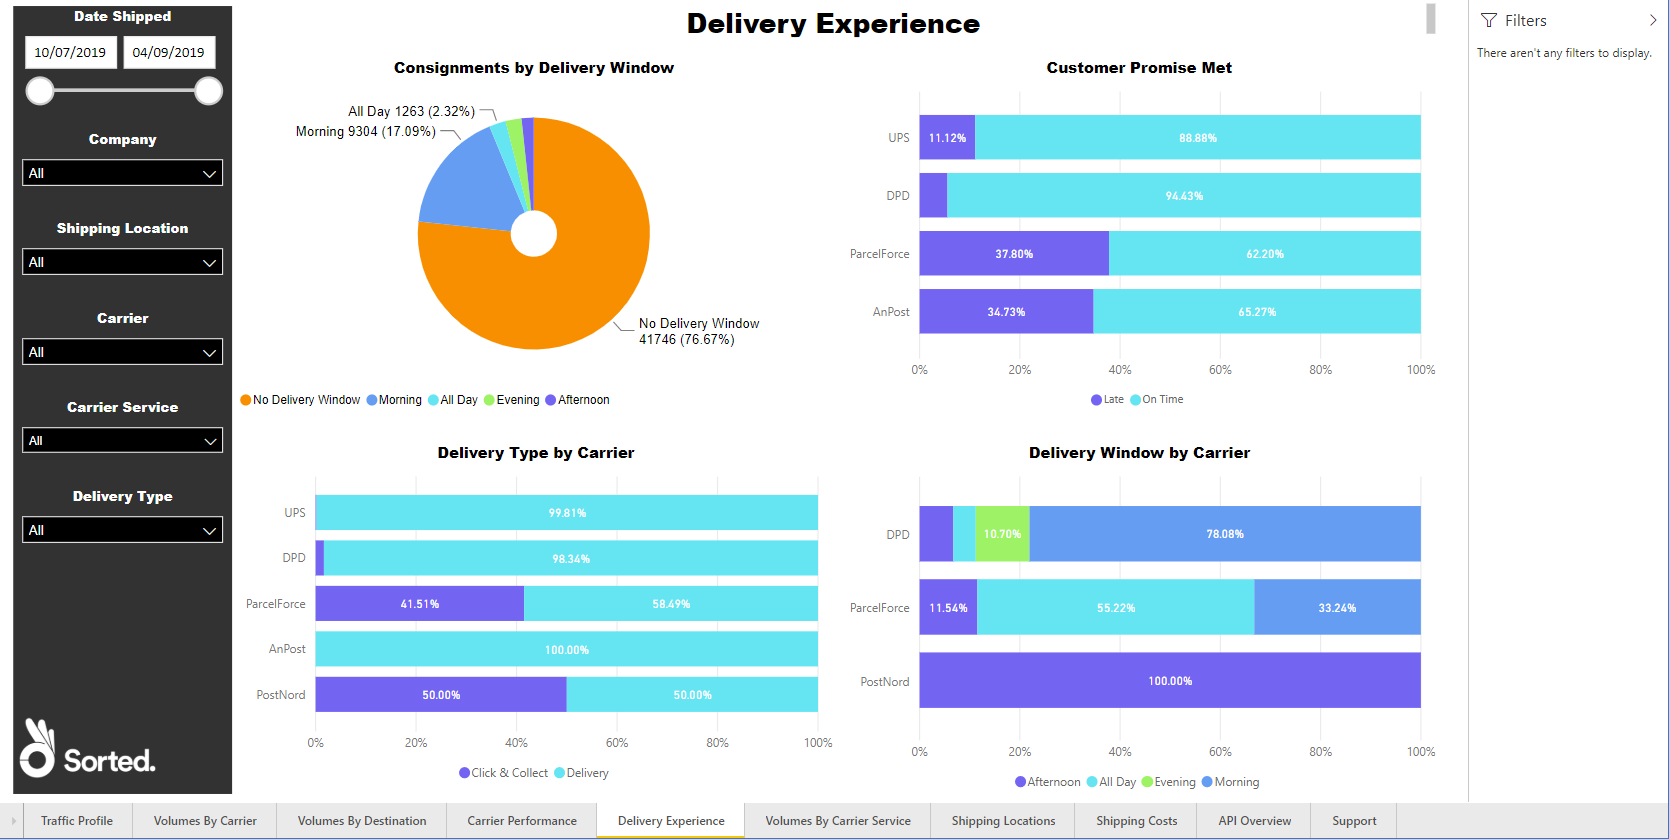
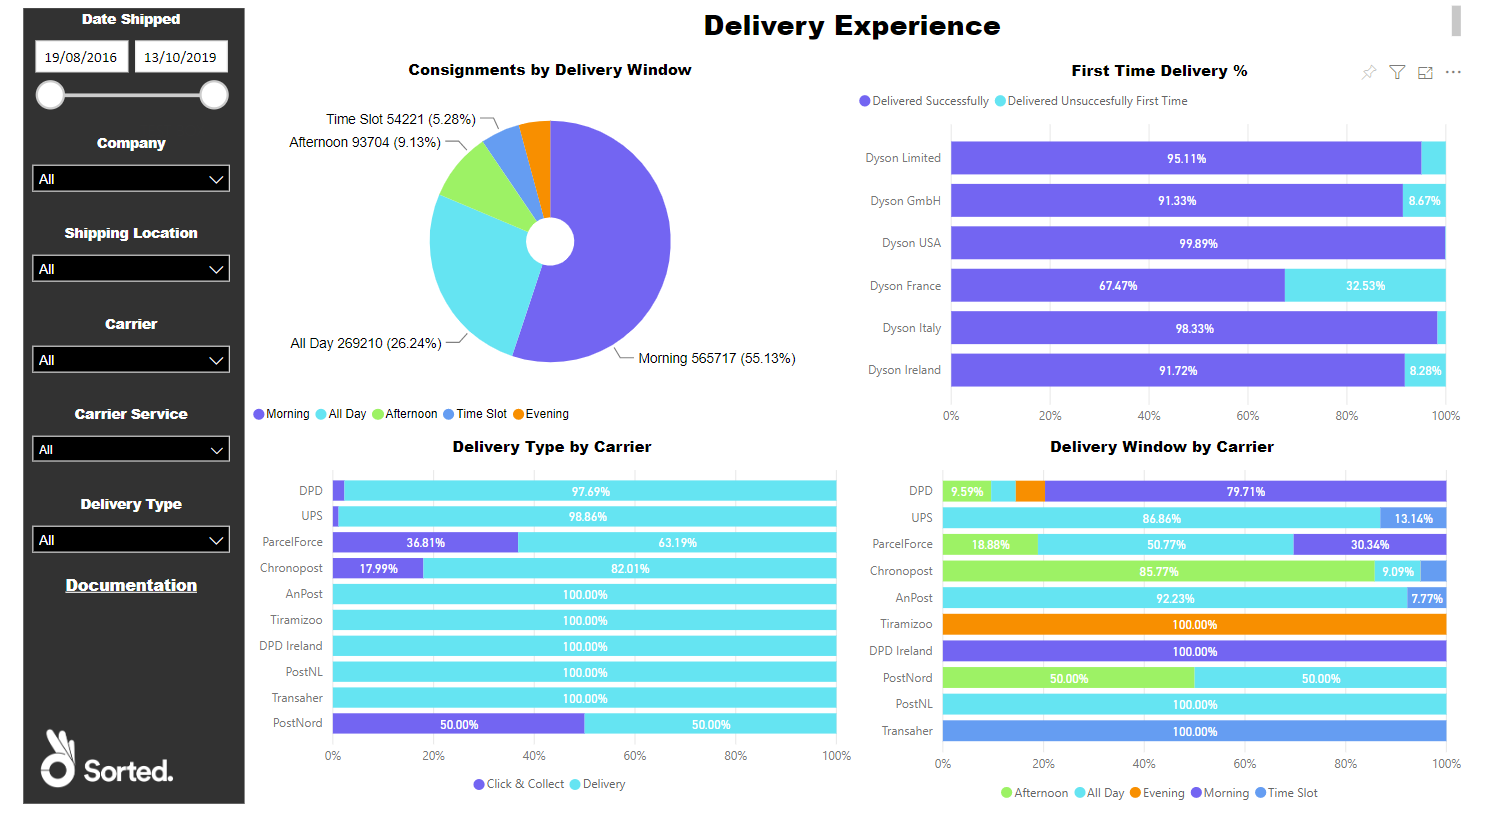
Site update

diff --git a/pro/reports/experience.html b/pro/reports/experience.html
@@ -69,8 +69,8 @@
 
 <p>The <strong>Delivery Experience</strong> report enables you to get an overview of the delivery windows and types requested by your customers, as well as how often your carriers were met those delivery promises.</p>
 <p>It comprises a <strong>Consignments by Delivery Window</strong> pie chart, a <strong>Delivery Type by Carrier</strong> bar chart, and a <strong>Delivery Window by Carrier</strong> bar chart.</p>
-<a href="../images/reports/experience.png" target="_blank">
-    <img src="../images/reports/experience.png">
+<a href="../images/reports/experience2.png" target="_blank">
+    <img src="../images/reports/experience2.png">
 </a>
 <h2 id="report-filters">Report Filters</h2>
 <p>The <strong>Delivery Experience</strong> report offers the following report-wide filters:</p>
@@ -113,24 +113,23 @@
     <img src="../images/reports/experience-delivery-window-data.png">
 </a>
 <p>The <strong>Consignments by Delivery Window</strong> pie chart's <strong>Show Data</strong> option shows the number of consignments that were scheduled for each delivery window.</p>
-<h2 id="delivery-type-by-carrier">Delivery Type by Carrier</h2>
-<p>The <strong>Delivery Type by Carrier</strong> chart shows the proportion of each carrier's consignments that used a particular delivery type (for example, <em>Click-and-Collect</em> or <em>Delivery</em>).</p>
-<a href="../images/reports/experience-type-by-carrier.png" target="_blank">
-    <img src="../images/reports/experience-type-by-carrier.png">
+<h2 id="first-time-delivery-">First Time Delivery %</h2>
+<p>The <strong>First Time Delivery %</strong> chart shows the proportion of each company's shipments that were successfully delivered on the first attempt.</p>
+<a href="../images/reports/experience-first.png" target="_blank">
+    <img src="../images/reports/experience-first.png">
 </a>
-<p>Hover your mouse over an area of the chart to see the number of that carrier's consignments that were created with that delivery type.</p>
-<a href="../images/reports/experience-type-by-carrier-highlight.png" target="_blank">
-    <img src="../images/reports/experience-type-by-carrier-highlight.png">
+<p>Hover your mouse over an area of the chart to see further details.</p>
+<a href="../images/reports/experience-first-highlight.png" target="_blank">
+    <img src="../images/reports/experience-first-highlight.png">
 </a>
 <h3 id="visual-filters-1">Visual Filters</h3>
-<p>You can filter the carriers displayed on the <strong>Delivery Type by Carrier</strong> chart using the following filters:</p>
+<p>You can filter the companies displayed on the <strong>First Time Delivery %</strong> chart using the following filters:</p>
 <ul>
-<li><strong>Carrier Name</strong> (<a href="/reports/filters-options.html#using-basic-filters">Basic</a> and <a href="/reports/filters-options.html#using-advanced-filters">Advanced</a>) - enables you to select a carrier or carriers to view.</li>
-<li><strong>Consignments</strong> (<a href="/reports/filters-options.html#using-numerical-filters">Numerical</a>) - enables you to filter by number of consignments shipped. For example, if you were to filter on <em>is greater than 5000</em>, then only those carriers with which you had shipped 5001 or more consignments would be displayed.</li>
-<li><strong>Delivery Type</strong> (<a href="/reports/filters-options.html#using-basic-filters">Basic</a> and <a href="/reports/filters-options.html#using-advanced-filters">Advanced</a>) - enables you to select a specific delivery type or types.</li>
+<li><strong>Company</strong> (<a href="/reports/filters-options.html#using-basic-filters">Basic</a> and <a href="/reports/filters-options.html#using-advanced-filters">Advanced</a>)- enables you to select one or more of your companies to view shipments for.</li>
+<li><strong>Count of ConsignmentReference</strong> (<a href="/reports/filters-options.html#using-numerical-filters">Numerical</a>) - enables you to filter by number of consignments shipped per company per day. For example, if you were to filter on <em>is greater than 1000</em>, then any data points in which the company had shipped 1000 or fewer consignments on that day would be ignored.</li>
 </ul>
 <h3 id="more-options-1">More Options</h3>
-<p>The following options are available from the <strong>More Options</strong> menu:</p>
+<p>The <strong>First Time Delivery %</strong> chart has the following options available from its <strong>More Options</strong> menu:</p>
 <ul>
 <li><a href="/reports/filters-options.html#open-comments">Open Comments</a></li>
 <li><a href="/reports/filters-options.html#export-data">Export Data</a></li>
@@ -142,6 +141,39 @@
 </ul>
 <p>You can also view the records that the visual's data was generated from by right-clicking on it and selecting <strong>View Records</strong> from the pop-up menu.</p>
 <h3 id="viewing-data-1">Viewing Data</h3>
+<a href="../images/reports/experience-first-data.png" target="_blank">
+    <img src="../images/reports/experience-first-data.png">
+</a>
+<p>The <strong>First Time Delivery %</strong> chart's <strong>Show Data</strong> option shows the number of each company's shipments that were successfully delivered first time, and how many were not.</p>
+<h2 id="delivery-type-by-carrier">Delivery Type by Carrier</h2>
+<p>The <strong>Delivery Type by Carrier</strong> chart shows the proportion of each carrier's consignments that used a particular delivery type (for example, <em>Click-and-Collect</em> or <em>Delivery</em>).</p>
+<a href="../images/reports/experience-type-by-carrier.png" target="_blank">
+    <img src="../images/reports/experience-type-by-carrier.png">
+</a>
+<p>Hover your mouse over an area of the chart to see the number of that carrier's consignments that were created with that delivery type.</p>
+<a href="../images/reports/experience-type-by-carrier-highlight.png" target="_blank">
+    <img src="../images/reports/experience-type-by-carrier-highlight.png">
+</a>
+<h3 id="visual-filters-2">Visual Filters</h3>
+<p>You can filter the carriers displayed on the <strong>Delivery Type by Carrier</strong> chart using the following filters:</p>
+<ul>
+<li><strong>Carrier Name</strong> (<a href="/reports/filters-options.html#using-basic-filters">Basic</a> and <a href="/reports/filters-options.html#using-advanced-filters">Advanced</a>) - enables you to select a carrier or carriers to view.</li>
+<li><strong>Consignments</strong> (<a href="/reports/filters-options.html#using-numerical-filters">Numerical</a>) - enables you to filter by number of consignments shipped. For example, if you were to filter on <em>is greater than 5000</em>, then only those carriers with which you had shipped 5001 or more consignments would be displayed.</li>
+<li><strong>Delivery Type</strong> (<a href="/reports/filters-options.html#using-basic-filters">Basic</a> and <a href="/reports/filters-options.html#using-advanced-filters">Advanced</a>) - enables you to select a specific delivery type or types.</li>
+</ul>
+<h3 id="more-options-2">More Options</h3>
+<p>The following options are available from the <strong>More Options</strong> menu:</p>
+<ul>
+<li><a href="/reports/filters-options.html#open-comments">Open Comments</a></li>
+<li><a href="/reports/filters-options.html#export-data">Export Data</a></li>
+<li><a href="/reports/filters-options.html#show-data">Show Data</a></li>
+<li><a href="/reports/filters-options.html#spotlight">Spotlight</a></li>
+<li><a href="/reports/filters-options.html#sort-descending--ascending--sort-by">Sort Descending</a></li>
+<li><a href="/reports/filters-options.html#sort-descending--ascending--sort-by">Sort Ascending</a></li>
+<li><a href="/reports/filters-options.html#sort-descending--ascending--sort-by">Sort by</a> Carrier / Consignments</li>
+</ul>
+<p>You can also view the records that the visual's data was generated from by right-clicking on it and selecting <strong>View Records</strong> from the pop-up menu.</p>
+<h3 id="viewing-data-2">Viewing Data</h3>
 <a href="../images/reports/experience-type-by-carrier-data.png" target="_blank">
     <img src="../images/reports/experience-type-by-carrier-data.png">
 </a>
@@ -160,13 +192,13 @@
 <a href="../images/reports/experience-window-highlight.png" target="_blank">
     <img src="../images/reports/experience-window-highlight.png">
 </a>
-<h3 id="visual-filters-2">Visual Filters</h3>
+<h3 id="visual-filters-3">Visual Filters</h3>
 <p>You can filter the carriers displayed on the <strong>Delivery Window by Carrier</strong> chart using the following filters:</p>
 <ul>
 <li><strong>Carrier Name</strong> (<a href="/reports/filters-options.html#using-basic-filters">Basic</a> and <a href="/reports/filters-options.html#using-advanced-filters">Advanced</a>) - enables you to select a carrier or carriers to view.</li>
 <li><strong>Consignments</strong> (<a href="/reports/filters-options.html#using-numerical-filters">Numerical</a>) - enables you to filter by number of consignments shipped. For example, if you were to filter on <em>is greater than 5000</em>, then only those carriers with which you had shipped 5001 or more consignments would be displayed.</li>
 </ul>
-<h3 id="more-options-2">More Options</h3>
+<h3 id="more-options-3">More Options</h3>
 <p>The following options are available from the <strong>More Options</strong> menu:</p>
 <ul>
 <li><a href="/reports/filters-options.html#open-comments">Open Comments</a></li>
@@ -178,7 +210,7 @@
 <li><a href="/reports/filters-options.html#sort-descending--ascending--sort-by">Sort by</a> Carrier / Consignments</li>
 </ul>
 <p>You can also view the records that the visual's data was generated from by right-clicking on it and selecting <strong>View Records</strong> from the pop-up menu.</p>
-<h3 id="viewing-data-2">Viewing Data</h3>
+<h3 id="viewing-data-3">Viewing Data</h3>
 <a href="../images/reports/experience-window-data.png" target="_blank">
     <img src="../images/reports/experience-window-data.png">
 </a>

diff --git a/pro/reports/support.html b/pro/reports/support.html
@@ -68,9 +68,9 @@
 <h1 id="support">Support</h1>
 
 <p>The <strong>Support</strong> report enables you to get an overview of your organisation's current and past support tickets.</p>
-<p>It comprises a <strong>Tickets by Status</strong> pie chart, a <strong>Tickets Logged by Company</strong> bar chart, a <strong>Tickets by Priority Level</strong>  pie chart, and a <strong>Tickets Logged Per Day By Company</strong> chart.</p>
-<a href="../images/reports/support.png" target="_blank">
-    <img src="../images/reports/support.png">
+<p>It comprises a <strong>Tickets by Status</strong> pie chart, a <strong>Tickets Logged by Company</strong> bar chart, a <strong>Current Tickets by Priority Level</strong>  pie chart, and a <strong>Tickets Logged Per Day By Company</strong> chart.</p>
+<a href="../images/reports/support2.png" target="_blank">
+    <img src="../images/reports/support2.png">
 </a>
 <h2 id="report-filters">Report Filters</h2>
 <p>The <strong>Support</strong> report offers the following report-wide filters:</p>
@@ -78,17 +78,17 @@
 <li><strong>Date Tickets Logged</strong> - enables you to select only those calls that were made within a given date range.</li>
 <li><strong>Company Name</strong> - where applicable, enables you to select only those calls that were made by a particular company within your group. You can select multiple companies if required.</li>
 </ul>
-<a href="../images/reports/support-left-filter.png" target="_blank">
-    <img src="../images/reports/support-left-filter.png">
+<a href="../images/reports/support-left-filter2.png" target="_blank">
+    <img src="../images/reports/support-left-filter2.png">
 </a>
 <h2 id="tickets-by-ticket-status">Tickets by Ticket Status</h2>
 <p>The <strong>Tickets by Ticket Status</strong> chat shows what proportion of your support tickets is in each of the support statuses.</p>
-<a href="../images/reports/support-by-status.png" target="_blank">
-    <img src="../images/reports/support-by-status.png">
+<a href="../images/reports/support-by-status2.png" target="_blank">
+    <img src="../images/reports/support-by-status2.png">
 </a>
 <p>Hover your mouse over a section of the pie chart to view the number of your tickets that are in each status.</p>
-<a href="../images/reports/support-by-status-highlight.png" target="_blank">
-    <img src="../images/reports/support-by-status-highlight.png">
+<a href="../images/reports/support-by-status-highlight2.png" target="_blank">
+    <img src="../images/reports/support-by-status-highlight2.png">
 </a>
 <h3 id="visual-filters">Visual Filters</h3>
 <p>You can filter the ticket statuses displayed on the <strong>Tickets by Ticket Status</strong> chart using the following filters:</p>
@@ -141,14 +141,14 @@
     <img src="../images/reports/support-by-company-data.png">
 </a>
 <p>The <strong>Tickets Logged by Company</strong> chart's <strong>Show Data</strong> option shows how many support tickets each of your companies has logged.</p>
-<h2 id="tickets-by-priority-level">Tickets by Priority Level</h2>
-<p>The <strong>Tickets by Priority Level</strong> chart shows how many of your open tickets are in each of the various priority levels.</p>
-<a href="../images/reports/support-priority.png" target="_blank">
-    <img src="../images/reports/support-priority.png">
+<h2 id="current-tickets-by-priority-level">Current Tickets by Priority Level</h2>
+<p>The <strong>Current Tickets by Priority Level</strong> chart shows how many of your open tickets are in each of the various priority levels.</p>
+<a href="../images/reports/support-priority2.png" target="_blank">
+    <img src="../images/reports/support-priority2.png">
 </a>
 <p>Hover your mouse over a section of the pie chart to view the number of open tickets in that priority level.</p>
-<a href="../images/reports/support-priority-highlight.png" target="_blank">
-    <img src="../images/reports/support-priority-highlight.png">
+<a href="../images/reports/support-priority-highlight2.png" target="_blank">
+    <img src="../images/reports/support-priority-highlight2.png">
 </a>
 <h3 id="visual-filters-2">Visual Filters</h3>
 <p>You can filter the priority levels displayed on the <strong>Current Tickets by Priority Level</strong> chart using the following filters:</p>
@@ -172,7 +172,7 @@
 <a href="../images/reports/support-priority-data.png" target="_blank">
     <img src="../images/reports/support-priority-data.png">
 </a>
-<p>The <strong>Tickets by Priority Level</strong> chart's <strong>Show Data</strong> option shows the number of open tickets you have in each of the priority levels.</p>
+<p>The <strong>Current Tickets by Priority Level</strong> chart's <strong>Show Data</strong> option shows the number of open tickets you have in each of the priority levels.</p>
 <h2 id="tickets-logged-per-day-by-company">Tickets Logged Per Day By Company</h2>
 <p>The <strong>Tickets Logged Per Day By Company</strong> chart shows the total number of tickets logged by each of your companies on any given day.</p>
 <a href="../images/reports/support-per-day.png" target="_blank">

diff --git a/pro/reports/api.html b/pro/reports/api.html
@@ -69,8 +69,8 @@
 
 <p>The <strong>API Overview</strong> enables you to get an overview of your organisation's API calls, including call volumes and ATUs used.</p>
 <p>It comprises an API data table, an <strong>API Requests by Company Name</strong> bar chart, an <strong>ATU Total Company</strong> pie chart, and an <strong>API Requests by IntervalDate and CustomerName</strong> line graph.</p>
-<a href="../images/reports/api.png" target="_blank">
-    <img src="../images/reports/api.png">
+<a href="../images/reports/api2.png" target="_blank">
+    <img src="../images/reports/api2.png">
 </a>
 <h2 id="report-filters">Report Filters</h2>
 <p>The <strong>API Overview</strong> report offers the following report-wide filters:</p>
@@ -78,13 +78,13 @@
 <li><strong>Date</strong> - enables you to select only those calls that were made within a given date range.</li>
 <li><strong>Company Name</strong> - where applicable, enables you to select only those calls that were made by a particular company within your group. You can select multiple companies if required.</li>
 </ul>
-<a href="../images/reports/api-left-filter.png" target="_blank">
-    <img src="../images/reports/api-left-filter.png">
+<a href="../images/reports/api-left-filter2.png" target="_blank">
+    <img src="../images/reports/api-left-filter2.png">
 </a>
 <h2 id="api-requests-by-company-name">API Requests by Company Name</h2>
 <p>The <strong>API Requests by Company Name</strong> chart shows how many requests each of your companies has made.</p>
-<a href="../images/reports/api-custname.png" target="_blank">
-    <img src="../images/reports/api-custname.png">
+<a href="../images/reports/api-custname2.png" target="_blank">
+    <img src="../images/reports/api-custname2.png">
 </a>
 <h3 id="visual-filters">Visual Filters</h3>
 <p>You can filter the companies displayed on the <strong>API Requests by Company Name</strong> visual as follows:</p>
@@ -143,12 +143,12 @@
 <p>The <strong>ATU Total Company</strong> chart's <strong>Show Data</strong> option displays the ATUs consumed by each of your businesses.</p>
 <h2 id="api-requests-over-time-by-company">API Requests Over Time by Company</h2>
 <p>The <strong>API Requests Over Time by Company</strong> chart shows how the total number of API requests made by each of your companies has changed over time. Each line represents one of your companies.</p>
-<a href="../images/reports/api-requests.png" target="_blank">
-    <img src="../images/reports/api-requests.png">
+<a href="../images/reports/api-requests2.png" target="_blank">
+    <img src="../images/reports/api-requests2.png">
 </a>
 <p>Hover your mouse over the chart to view the total number of API requests made by each company for a given <code>IntervalDate</code>.</p>
-<a href="../images/reports/api-requests-highlight.png" target="_blank">
-    <img src="../images/reports/api-requests-highlight.png">
+<a href="../images/reports/api-requests-highlight2.png" target="_blank">
+    <img src="../images/reports/api-requests-highlight2.png">
 </a>
 <h3 id="visual-filters-2">Visual Filters</h3>
 <ul>

diff --git a/pro/reports/traffic-profile.html b/pro/reports/traffic-profile.html
@@ -128,7 +128,7 @@ In the context of PRO, the term &quot;consignment&quot; refers to a collection o
 <li><a href="/reports/filters-options.html#sort-descending--ascending--sort-by">Sort Ascending</a></li>
 <li><a href="/reports/filters-options.html#sort-descending--ascending--sort-by">Sort by</a> Company / Consignments / Packages / Average Packages per Consignment / Avg Weight, Kg / Avg Weight, Volumetric</li>
 </ul>
-<h2 id="consignment-volume-distribution-by-absolute-weight-chart">Consignment Volume Distribution by Absolute Weight Chart</h2>
+<h2 id="consignment-volume-distribution-by-absolute-weight">Consignment Volume Distribution by Absolute Weight</h2>
 <p>The <strong>Consignment Volume Distribution by Absolute Weight</strong> chart displays the weight distribution of your manifested consignments.</p>
 <a href="../images/reports/traffic-profile-weight.png" target="_blank">
     <img src="../images/reports/traffic-profile-weight.png">
@@ -149,7 +149,7 @@ In the context of PRO, the term &quot;consignment&quot; refers to a collection o
     <img src="../images/reports/traffic-profile-weight-data.png">
 </a>
 <p>The <strong>Consignment Volume Distribution by Absolute Weight</strong> chart's <strong>Show Data</strong> option displays a table of absolute weights in kilograms (rounded to the nearest 10 grams), and a count of how many consignments met each weight. For example, the sample image shows that the customer shipped 266 consignments with a total weight of 0.14 kg (i.e. 140 grams), and 39 consignments with a total weight of 0.25 kg (250 grams).</p>
-<h2 id="consignment-volume-distribution-by-volumetric-weight-chart">Consignment Volume Distribution by Volumetric Weight Chart</h2>
+<h2 id="consignment-volume-distribution-by-volumetric-weight">Consignment Volume Distribution by Volumetric Weight</h2>
 <p>The <strong>Consignment Volume Distribution by Volumetric Weight</strong> chart displays the volumetric weight distribution of your manifested consignments.</p>
 <a href="../images/reports/traffic-profile-vol-weight.png" target="_blank">
     <img src="../images/reports/traffic-profile-vol-weight.png">

diff --git a/pro/reports/location-performance.html b/pro/reports/location-performance.html
@@ -127,7 +127,7 @@
 <p>You can filter the carriers displayed on the <strong>Carrier Usage</strong> table using the following filters:</p>
 <ul>
 <li><strong>Carrier Name</strong> (<a href="/reports/filters-options.html#using-basic-filters">Basic</a> and <a href="/reports/filters-options.html#using-advanced-filters">Advanced</a>) - enables you to select a carrier or carriers whose services you want to view.</li>
-<li><strong>Count of ConsignmentReference</strong> (<a href="/reports/filters-options.html#using-numerical-filters">Numerical</a>)  - enables you to filter by number of consignments shipped per carrier per day. For example, if you were to filter on <em>is greater than 1000</em>, then any data points in which the carrier had shipped 1000 or fewer consignments on that day would be ignored.</li>
+<li><strong>Count of ConsignmentReference</strong> (<a href="/reports/filters-options.html#using-numerical-filters">Numerical</a>) - enables you to filter by number of consignments shipped per carrier per day. For example, if you were to filter on <em>is greater than 1000</em>, then any data points in which the carrier had shipped 1000 or fewer consignments on that day would be ignored.</li>
 <li><strong>CreatedDateOnly</strong> (<a href="/reports/filters-options.html#using-basic-filters">Basic</a>, <a href="/reports/filters-options.html#using-advanced-filters">Advanced</a>, and <a href="/reports/filters-options.html#using-relative-date-filters">Relative Date</a>) - enables you to select specific created dates or date ranges to view.</li>
 </ul>
 <h3 id="more-options-1">More Options</h3>

diff --git a/pro/reports/by-carrier.html b/pro/reports/by-carrier.html
@@ -137,7 +137,7 @@
     <img src="../images/reports/by-carrier-pie-data.png">
 </a>
 <p>The <strong>Consignments by Carrier Name</strong> chart's <strong>Show Data</strong> chart lists the number of consignments you have shipped with each carrier.</p>
-<h2 id="consignments-shipped-by-carrier-over-time-chart">Consignments Shipped by Carrier Over Time Chart</h2>
+<h2 id="consignments-shipped-by-carrier-over-time">Consignments Shipped by Carrier Over Time</h2>
 <p>The <strong>Consignments Shipped by Carrier Over Time</strong> chart shows how many shipments each of your carriers made on each day of the selected time period. You can control the time period displayed using the <strong>Date Shipped</strong> report filter.</p>
 <a href="../images/reports/by-carrier-over-time.png" target="_blank">
     <img src="../images/reports/by-carrier-over-time.png">
